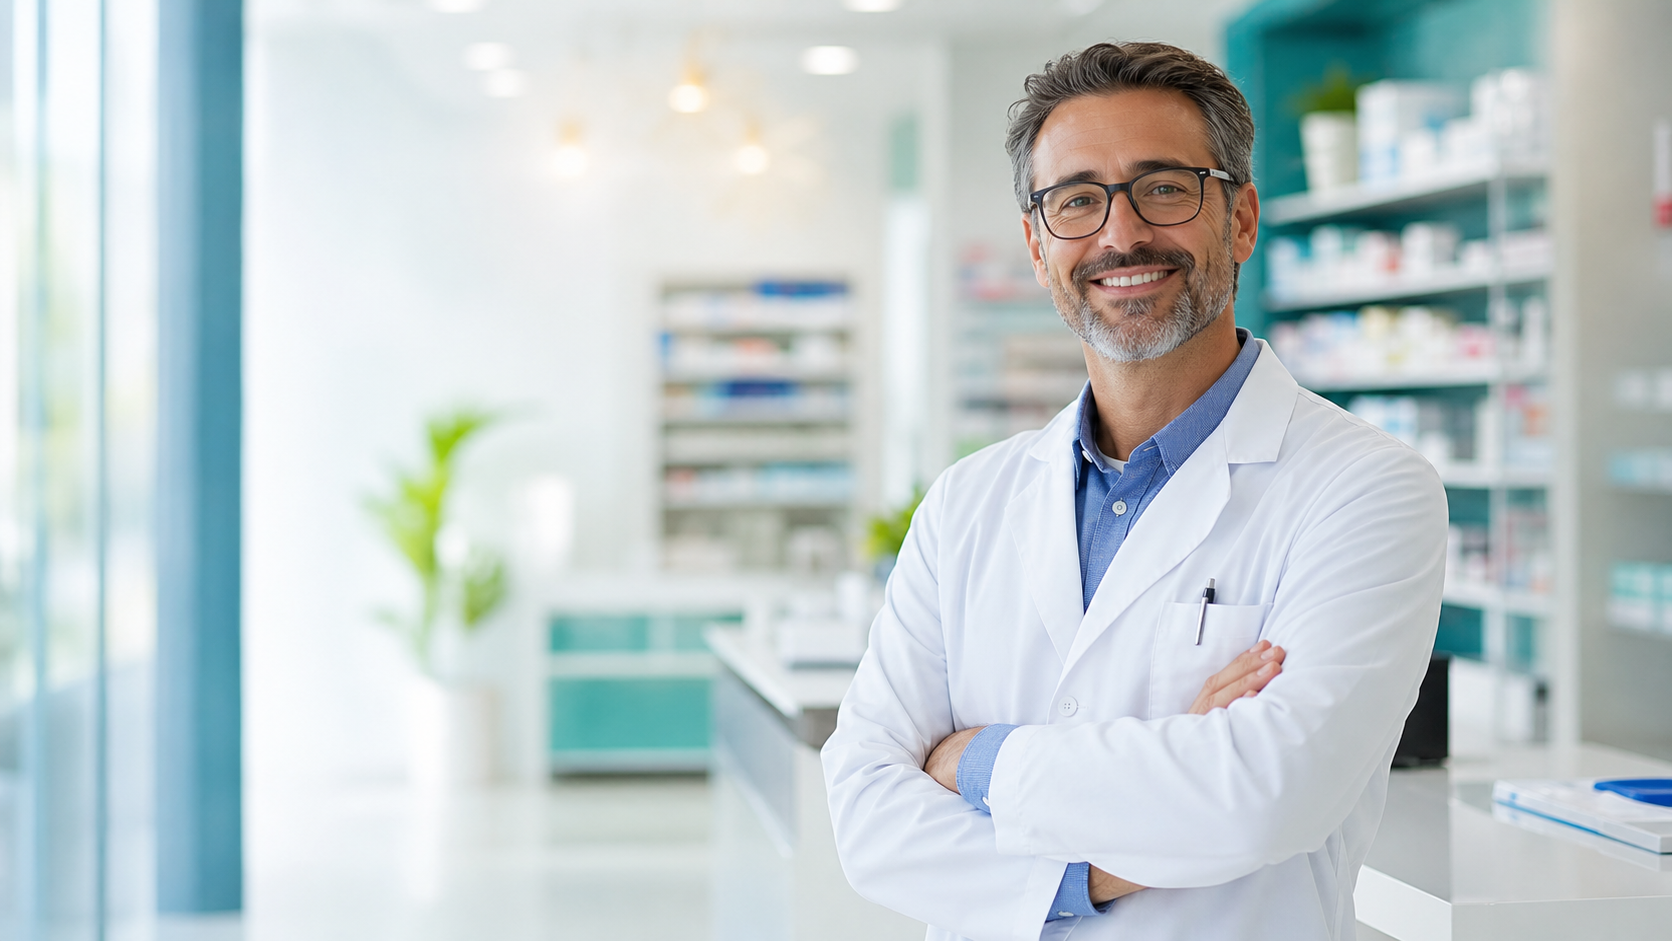
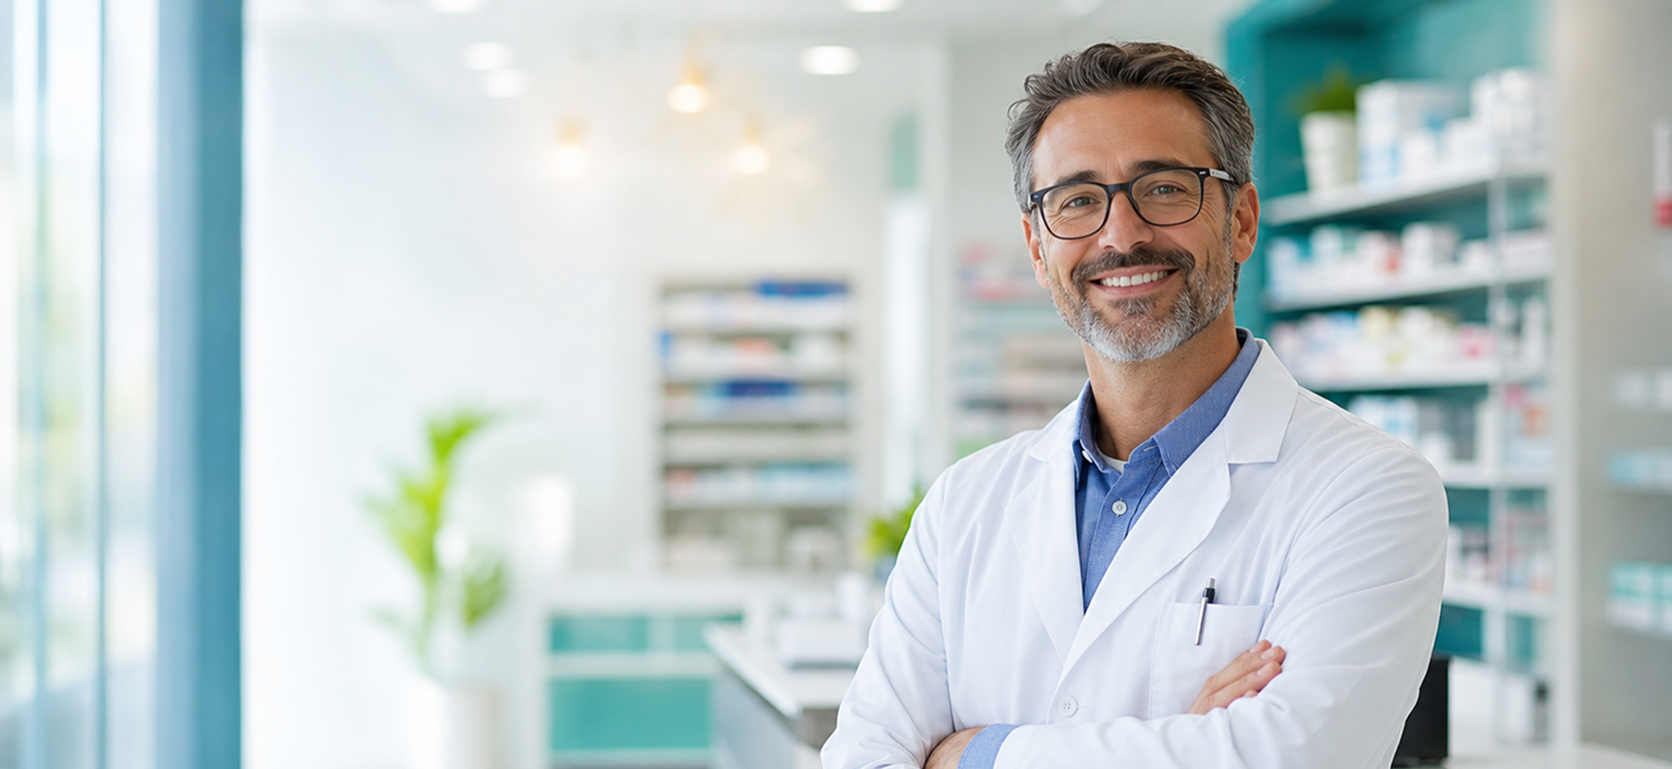
Update homepage hero image and layout

diff --git a/src/App.tsx b/src/App.tsx
@@ -1961,6 +1961,9 @@ function HomePage({
     : 'font-ui text-[clamp(2.45rem,4.3vw,4.45rem)] font-bold leading-[0.98] tracking-[-0.035em] text-white sm:text-[clamp(2.85rem,4.7vw,4.45rem)]';
   const heroLineClass = isSpanish ? 'block max-w-[11ch] text-balance' : 'block whitespace-nowrap';
   const quickActionTopClass = isSpanish ? 'text-[14px] sm:text-[15px] lg:text-[16px]' : 'text-[15px] sm:text-[16px] lg:text-[17px]';
+  const heroImageClass = isSpanish
+    ? 'absolute inset-0 h-full w-full object-cover object-[84%_72%] sm:object-[78%_74%] lg:object-[72%_76%]'
+    : 'absolute inset-0 h-full w-full object-cover object-[84%_72%] sm:object-[78%_74%] lg:object-[72%_76%]';
   const featuredResourceThemes = [
     {
       shell: 'bg-[#f6f2eb] text-[var(--charcoal)] border-[rgba(15,118,110,0.08)]',
@@ -2010,7 +2013,7 @@ function HomePage({
           src={homeHeroImage}
           alt=""
           aria-hidden="true"
-          className="absolute inset-0 h-full w-full object-cover object-[84%_45%] sm:object-[78%_48%] lg:object-[72%_52%]"
+          className={heroImageClass}
           decoding="async"
           fetchPriority="high"
         />
